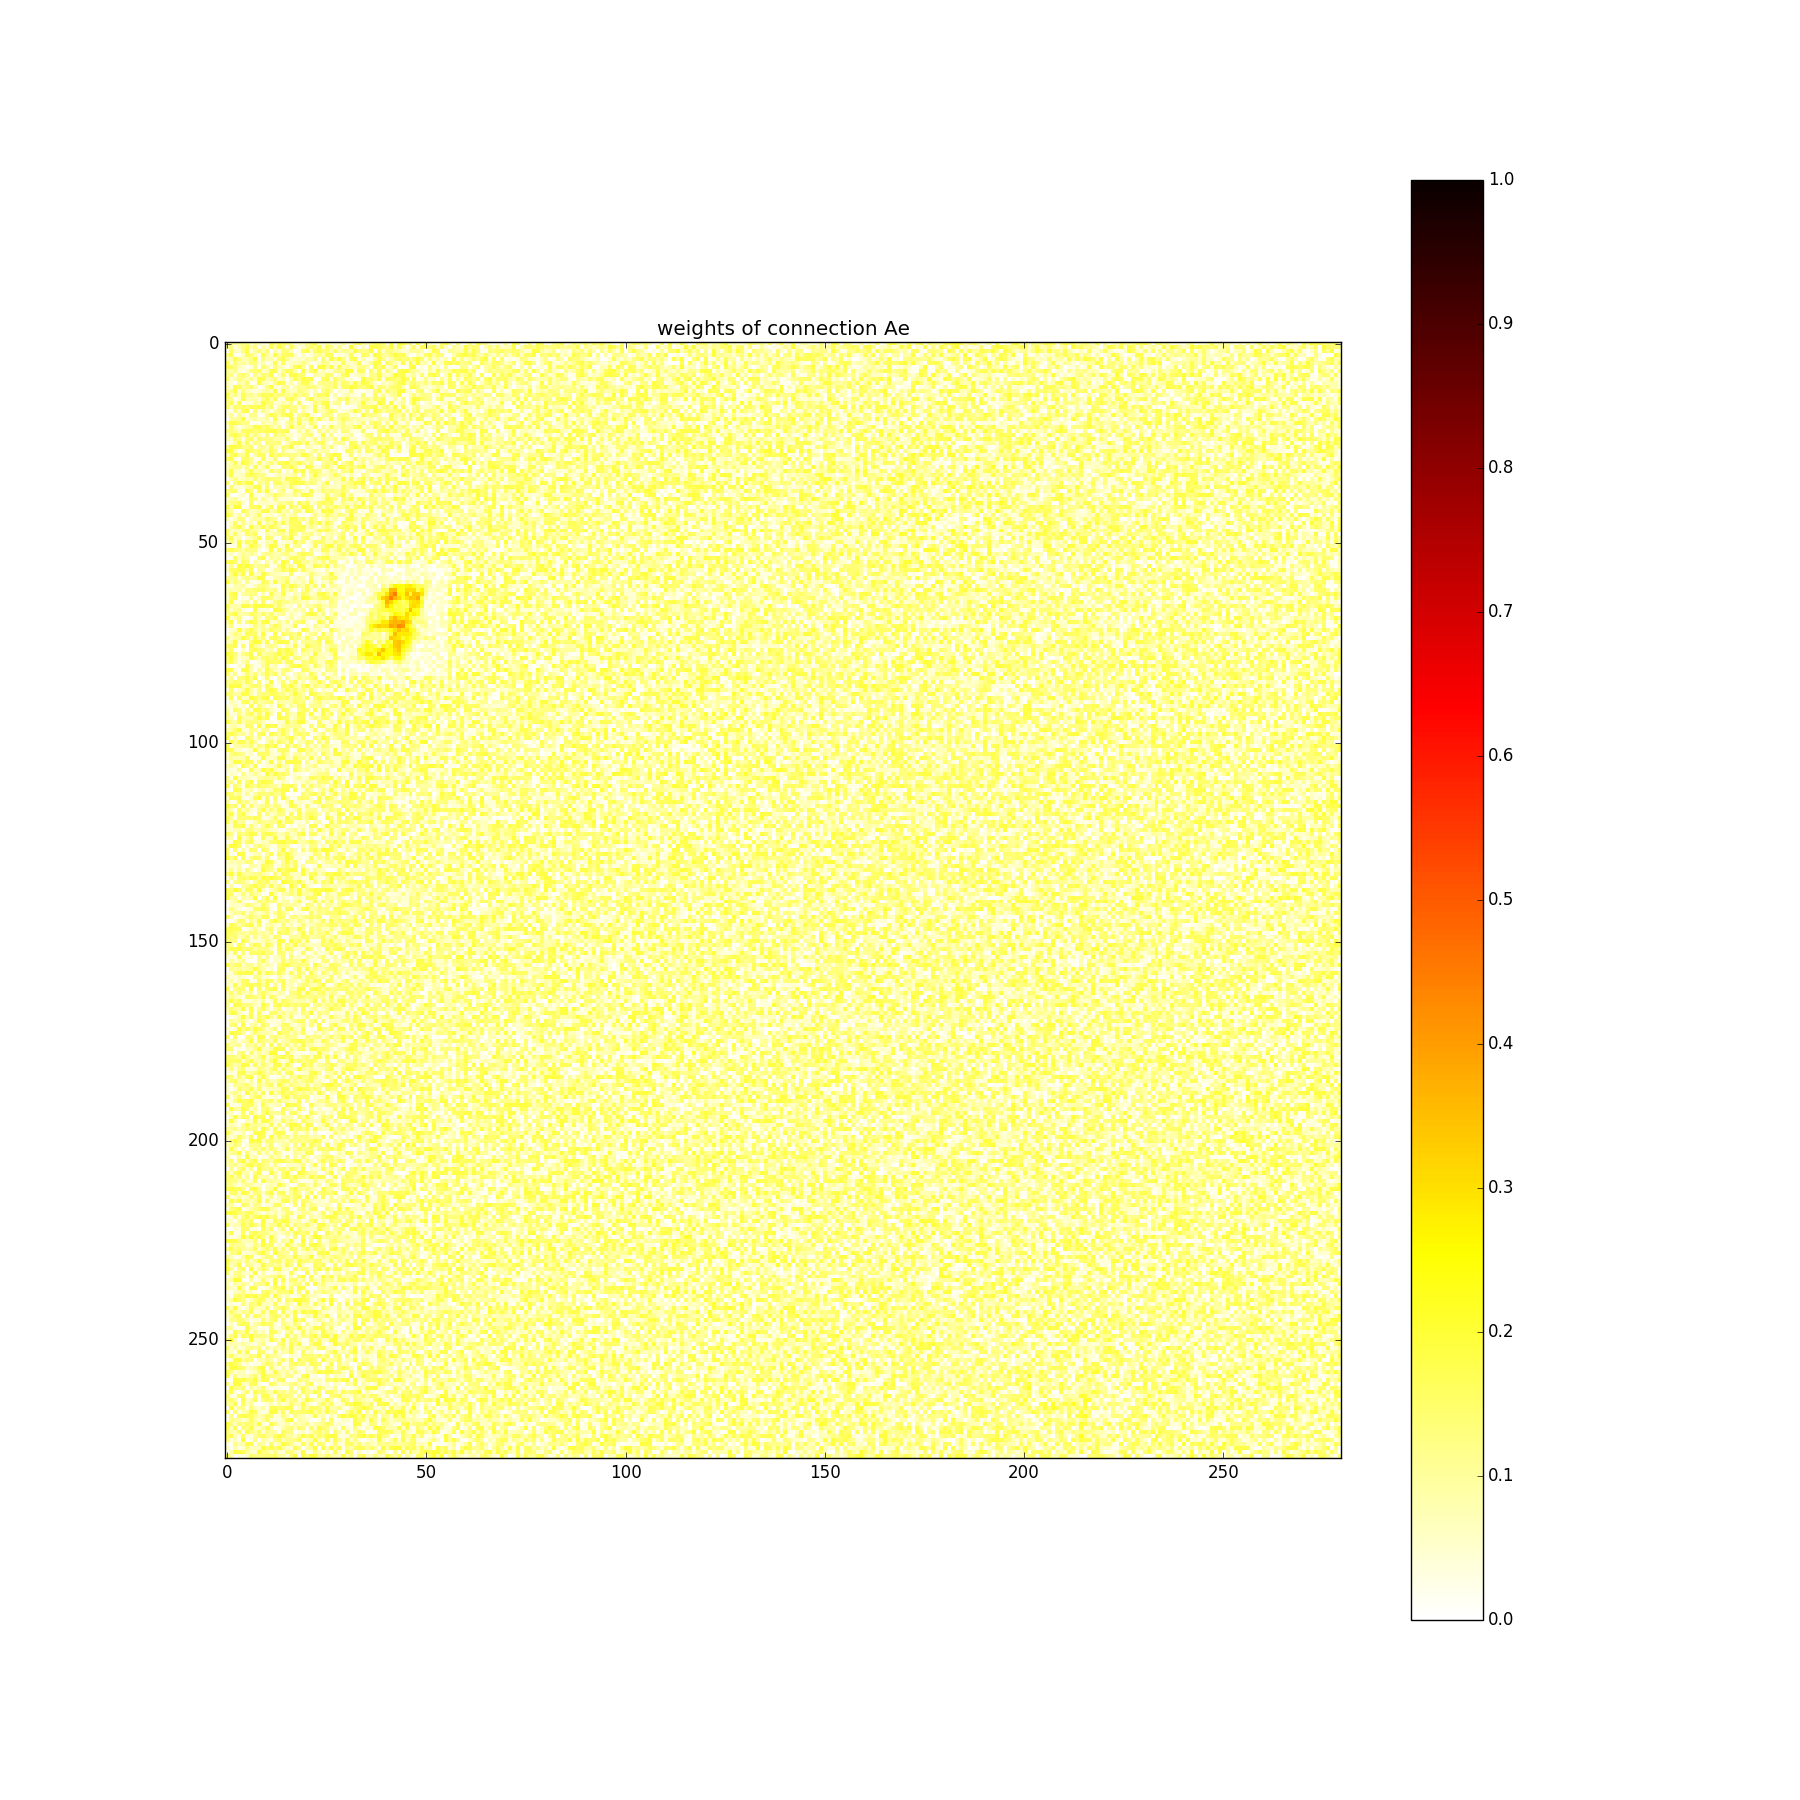
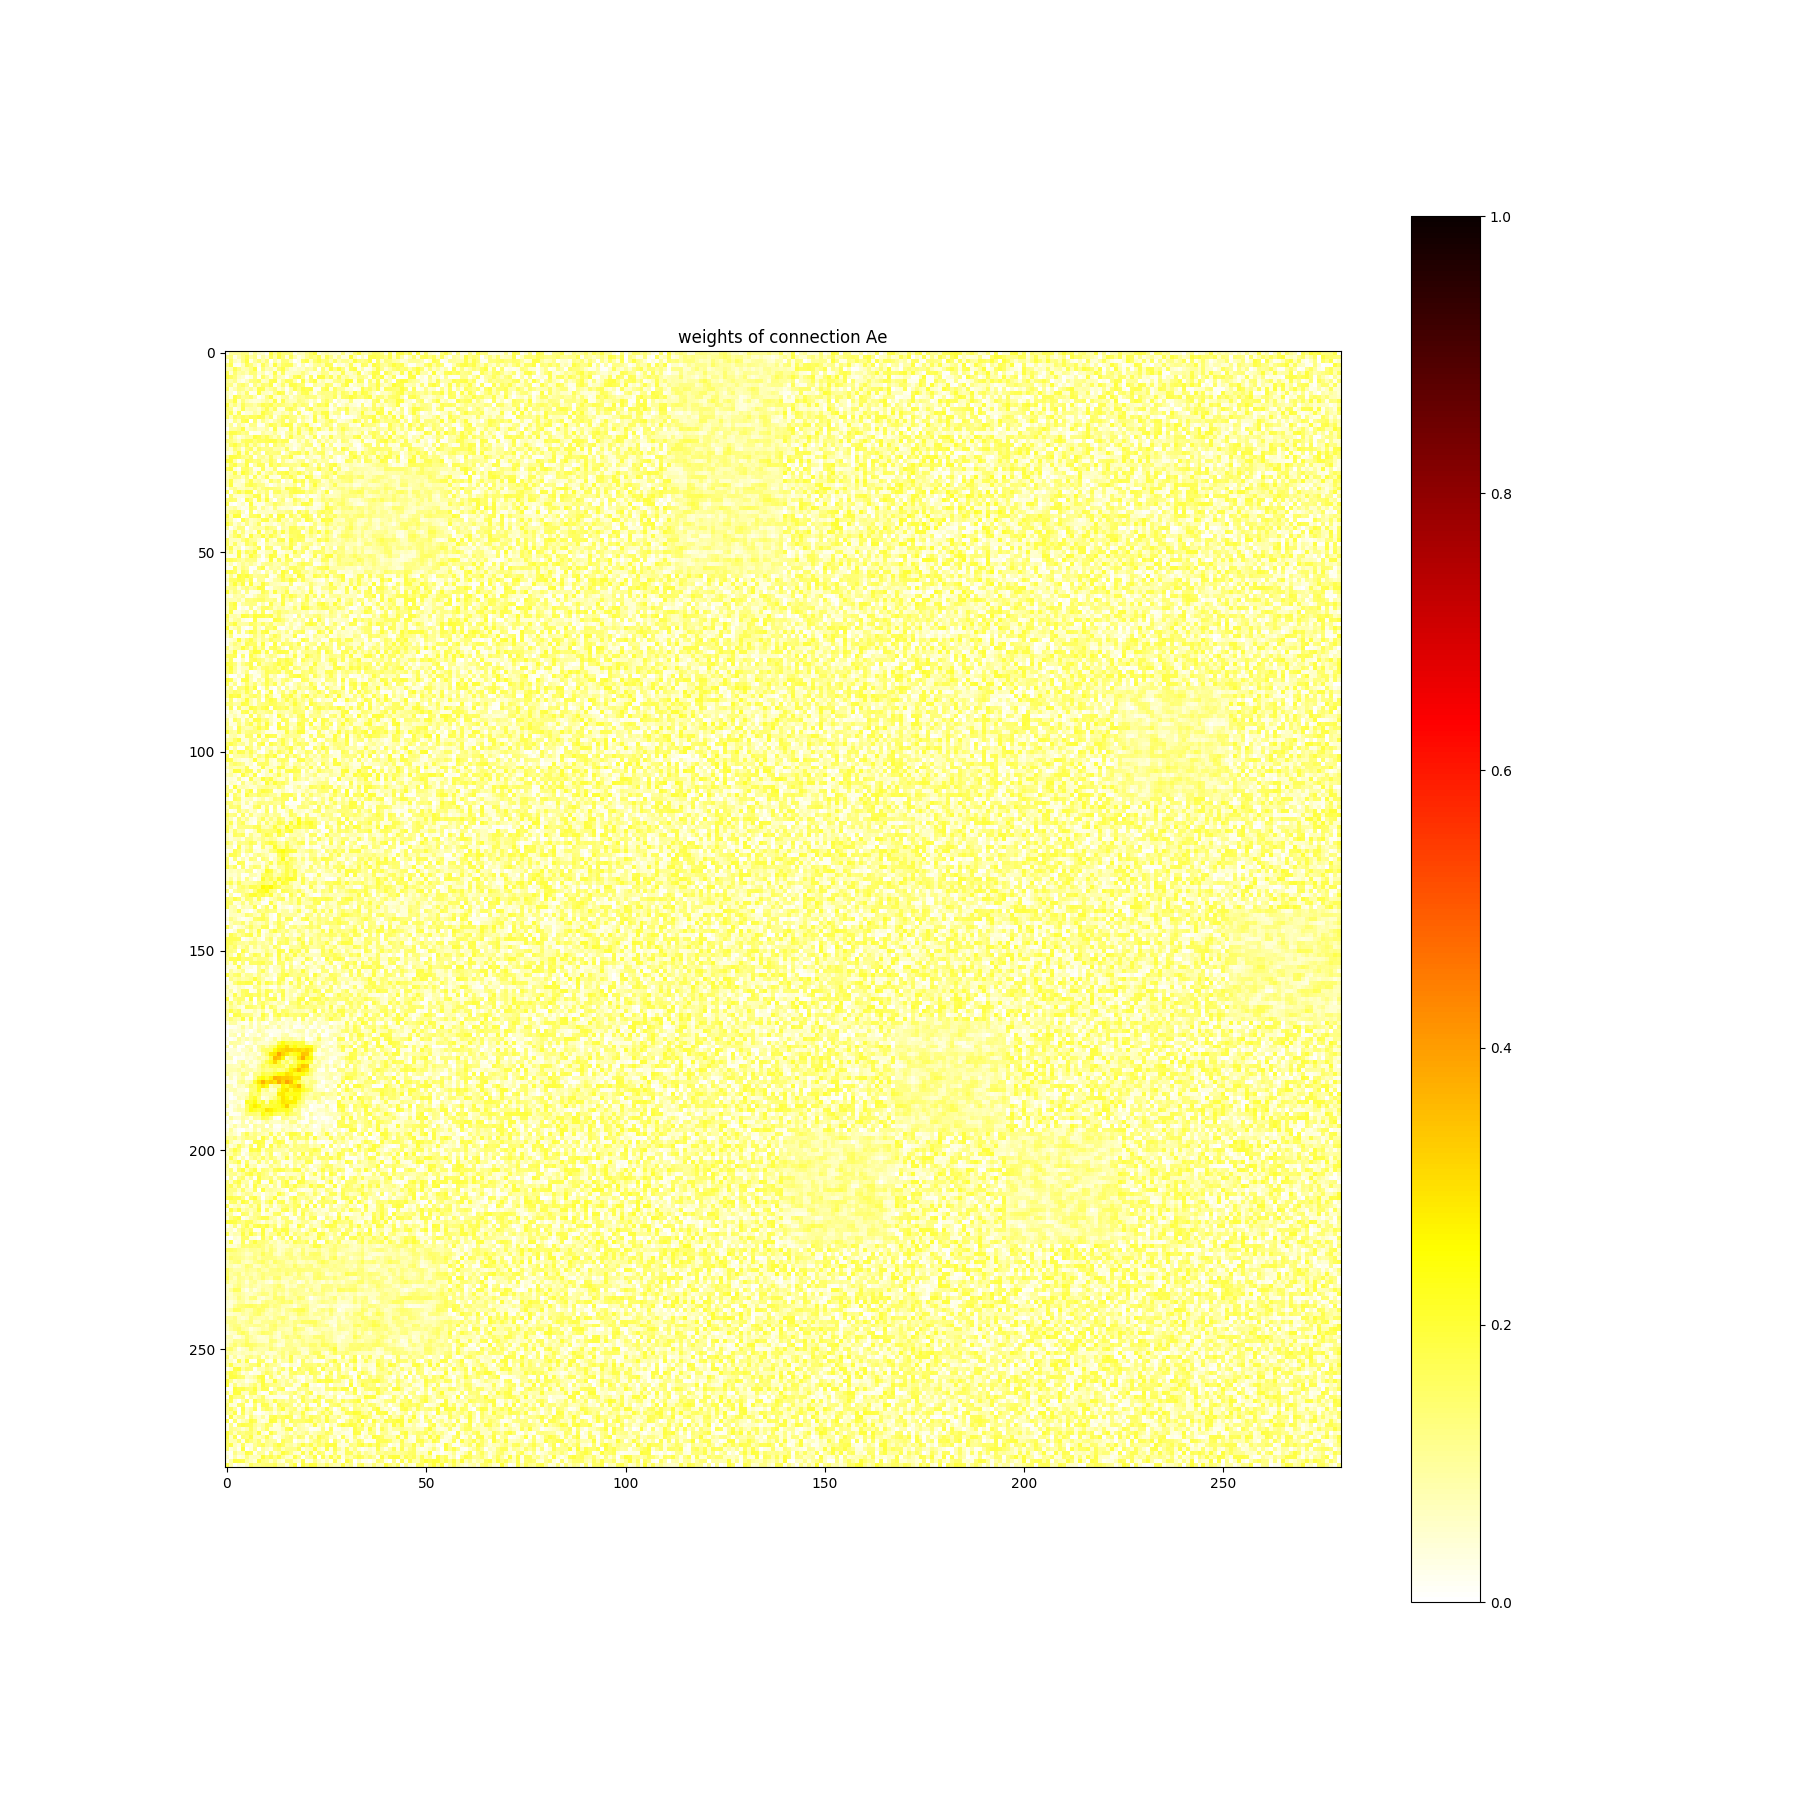
Vectorizing weight smoothing. Much faster now :)

diff --git a/spiking_input_exc_weights_norm.py b/spiking_input_exc_weights_norm.py
@@ -4,7 +4,7 @@ Created on 15.12.2014
 @author: Peter U. Diehl
 '''
 
- 
+
 import numpy as np
 import matplotlib.cm as cmap
 import time
@@ -20,12 +20,12 @@ from brian import *
 # specify the location of the MNIST data
 MNIST_data_path = './'
 
-#------------------------------------------------------------------------------ 
+#------------------------------------------------------------------------------
 # functions
-#------------------------------------------------------------------------------     
+#------------------------------------------------------------------------------
 def get_labeled_data(picklename, bTrain = True):
     '''
-    Read input-vector (image) and target class (label, 0-9) and return it as 
+    Read input-vector (image) and target class (label, 0-9) and return it as
     a list of tuples.
     '''
     if os.path.isfile('%s.pickle' % picklename):
@@ -46,7 +46,7 @@ def get_labeled_data(picklename, bTrain = True):
         # Get metadata for labels
         labels.read(4)  # skip the magic_number
         N = unpack('>I', labels.read(4))[0]
-    
+
         if number_of_images != N:
             raise Exception('number of labels did not match the number of images')
         # Get the data
@@ -57,7 +57,7 @@ def get_labeled_data(picklename, bTrain = True):
                 print("i: %i" % i)
             x[i] = [[unpack('>B', images.read(1))[0] for unused_col in xrange(cols)]  for unused_row in xrange(rows) ]
             y[i] = unpack('>B', labels.read(1))[0]
-            
+
         data = {'x': x, 'y': y, 'rows': rows, 'cols': cols}
         pickle.dump(data, open("%s.pickle" % picklename, "wb"))
     return data
@@ -66,7 +66,7 @@ def get_labeled_data(picklename, bTrain = True):
 def get_matrix_from_file(fileName):
     offset = len(str(n_e)) + 4
     if fileName[-offset-4] == 'X':
-        n_src = n_input                
+        n_src = n_input
     else:
         if fileName[-offset-3]=='e':
             n_src = n_e
@@ -118,8 +118,21 @@ def is_lattice_connection(n, i, j):
         i: First neuron's index
         k: Second neuron's index
     '''
-    sqrt = int(math.sqrt(n))
-    return i + 1 == j and j % sqrt != 0 or i - 1 == j and i % sqrt != 0 or i + sqrt == j or i - sqrt == j
+    
+    return i + 1 == j and j % input_sqrt != 0 or i - 1 == j and i % input_sqrt != 0 or i + input_sqrt == j or i - input_sqrt == j and not i < 0 and not j < 0 and not i >= input_sqrt and not j >= input_sqrt
+
+
+def get_average_matrix(weights, exc):
+    '''
+    Subroutine for 'smooth_random_weights'.
+    
+    exc: excitatory neuron whose weights we want to average / smooth over neighbors
+    in lattice.
+    '''
+    
+    neighbors_matrix = [ [ weights[x * input_sqrt + y] for (x, y) in lattice_connections[(i, j)] ] for i in xrange(input_sqrt) for j in xrange(input_sqrt) ]
+    
+    return np.array( [ sum(neighbors) / float(len(neighbors)) for neighbors in neighbors_matrix ] )
 
 
 def smooth_random_weights():
@@ -131,20 +144,13 @@ def smooth_random_weights():
 	input_to_exc_conn = connections['XeAe' + str(n_e)][:]
 	
 	# copy and reshape it for convenient computation
-	temp_conn = np.copy(input_to_exc_conn).reshape((int(math.sqrt(n_input)), int(math.sqrt(n_input)), n_e))
+	temp_conn = np.copy(input_to_exc_conn)
 	
 	# for a randomly chosen neuron, smooth its weights according to its neighbors' values in the lattice
-	exc = np.random.randint(temp_conn.shape[2])
+	exc = np.random.randint(temp_conn.shape[1])
 	
-	for i in range(temp_conn.shape[0]):
-		for j in range(temp_conn.shape[1]):
-			# get neighboring weights
-			neighbors = []
-			for x, y in zip([i - 1, i + 1, i, i], [j, j, j - 1, j + 1]):
-				if is_lattice_connection(n_input, i * int(math.sqrt(n_input)) + j, x * int(math.sqrt(n_input)) + y):
-					neighbors.append(temp_conn[i, j, exc])
-
-			input_to_exc_conn[i * temp_conn.shape[0] + j, exc] = 0.5 * temp_conn[i, j, exc] + 0.5 * ( sum(neighbors) / float(len(neighbors)) )
+	# let's vectorize this computation using numpy
+	input_to_exc_conn[:, exc] = np.array(0.5 * temp_conn[:, exc] + 0.5 * get_average_matrix(temp_conn[:, exc], exc))
 
             
 def plot_input():
@@ -168,7 +174,7 @@ def get_2d_input_weights():
     weight_matrix = np.zeros((n_input, n_e))
     n_e_sqrt = int(np.sqrt(n_e))
     n_in_sqrt = int(np.sqrt(n_input))
-    num_values_col = n_e_sqrt*n_in_sqrt
+    num_values_col = n_e_sqrt * n_in_sqrt
     num_values_row = num_values_col
     rearranged_weights = np.zeros((num_values_col, num_values_row))
     connMatrix = connections[name][:]
@@ -310,7 +316,7 @@ if test_mode:
     ee_STDP_on = False
     update_interval = num_examples
 else:
-    weight_path = data_path + 'random/'  
+    weight_path = data_path + 'random/'
     num_examples = 60000 * 1
     use_testing_set = False
     do_plot_performance = True
@@ -320,6 +326,7 @@ else:
 
 # number of inputs to the network
 n_input = 784
+input_sqrt = int(math.sqrt(n_input))
 # number of classes to learn
 classes_input = raw_input('Enter classes to learn as comma-separated list (e.g, 0,1,2,3,...) (default all 10 classes): ')
 if classes_input == '':
@@ -363,6 +370,17 @@ single_example_time = 0.35 * b.second
 resting_time = 0.15 * b.second
 # total runtime (number of examples times (presentation time plus rest period))
 runtime = num_examples * (single_example_time + resting_time)
+
+# set up dictionary of lattice connections for lookup later
+lattice_connections = {}
+lattice_indices = zip((-1, 1, 0, 0), (0, 0, -1, 1))
+
+for i in range(input_sqrt):
+	for j in range(input_sqrt):
+		lattice_connections[(i, j)] = []
+		for x, y in lattice_indices:
+			if is_lattice_connection(n_input, (i + x) * int(input_sqrt) + j, i * int(input_sqrt) + j + y):
+				lattice_connections[(i, j)].append((i + x, j + y))
 
 # set the update interval and weight update interval (for network weights?) 
 if num_examples <= 10000:
@@ -596,7 +614,7 @@ if not test_mode:
     fig_num += 1
 
 # plot input intensities
-rates = np.zeros((int(np.sqrt(n_input)), int(np.sqrt(n_input))))
+rates = np.zeros((input_sqrt, input_sqrt))
 input_image_monitor, input_image = plot_input()
 fig_num += 1
 
